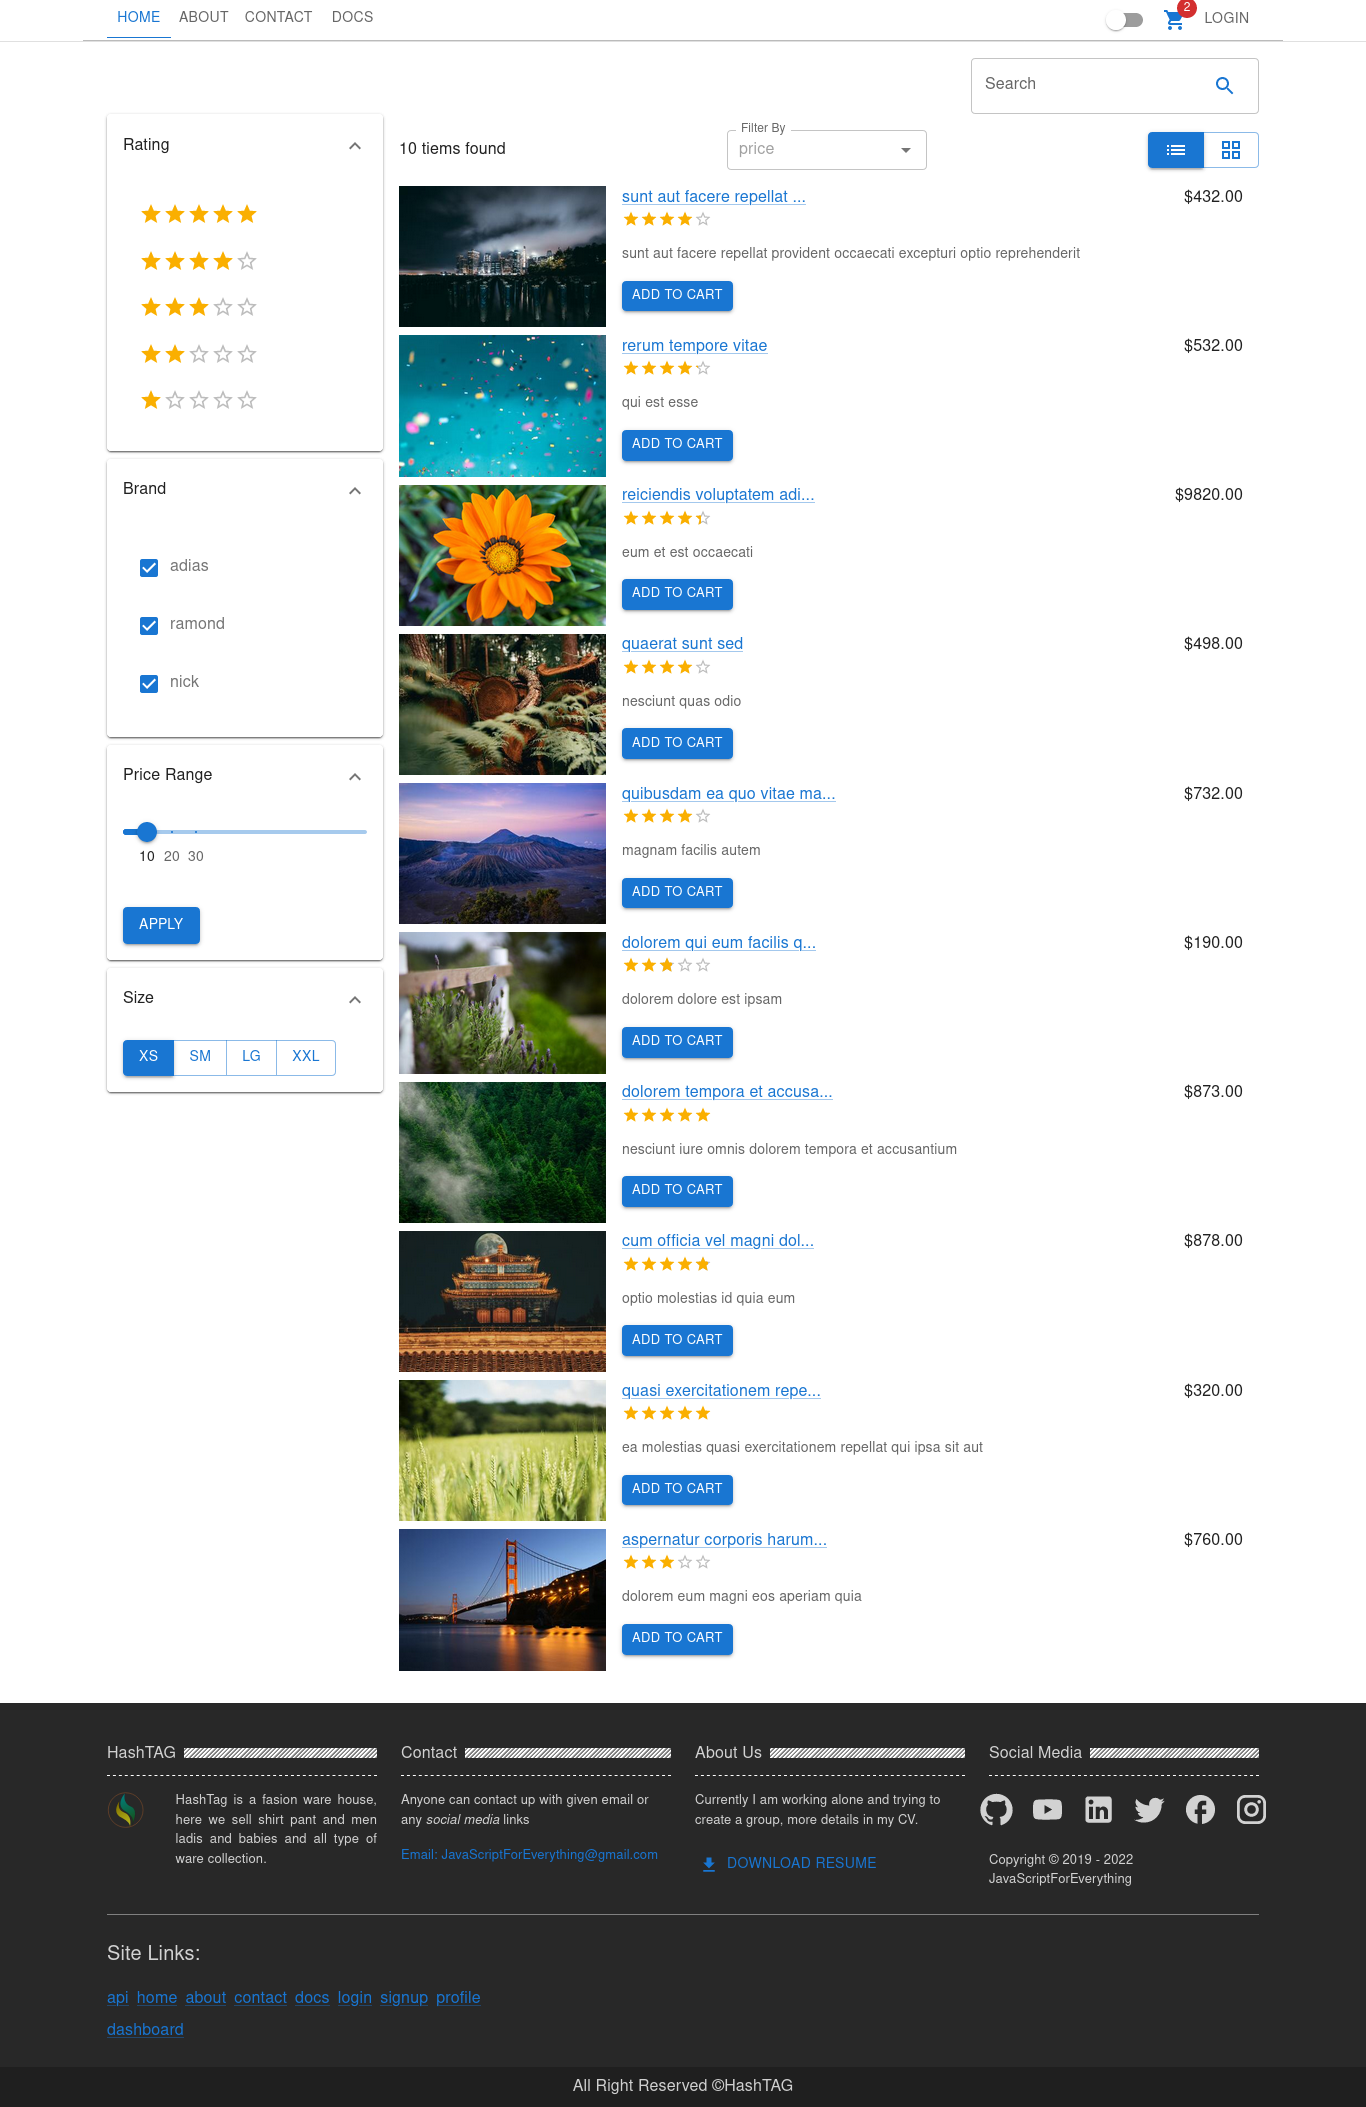
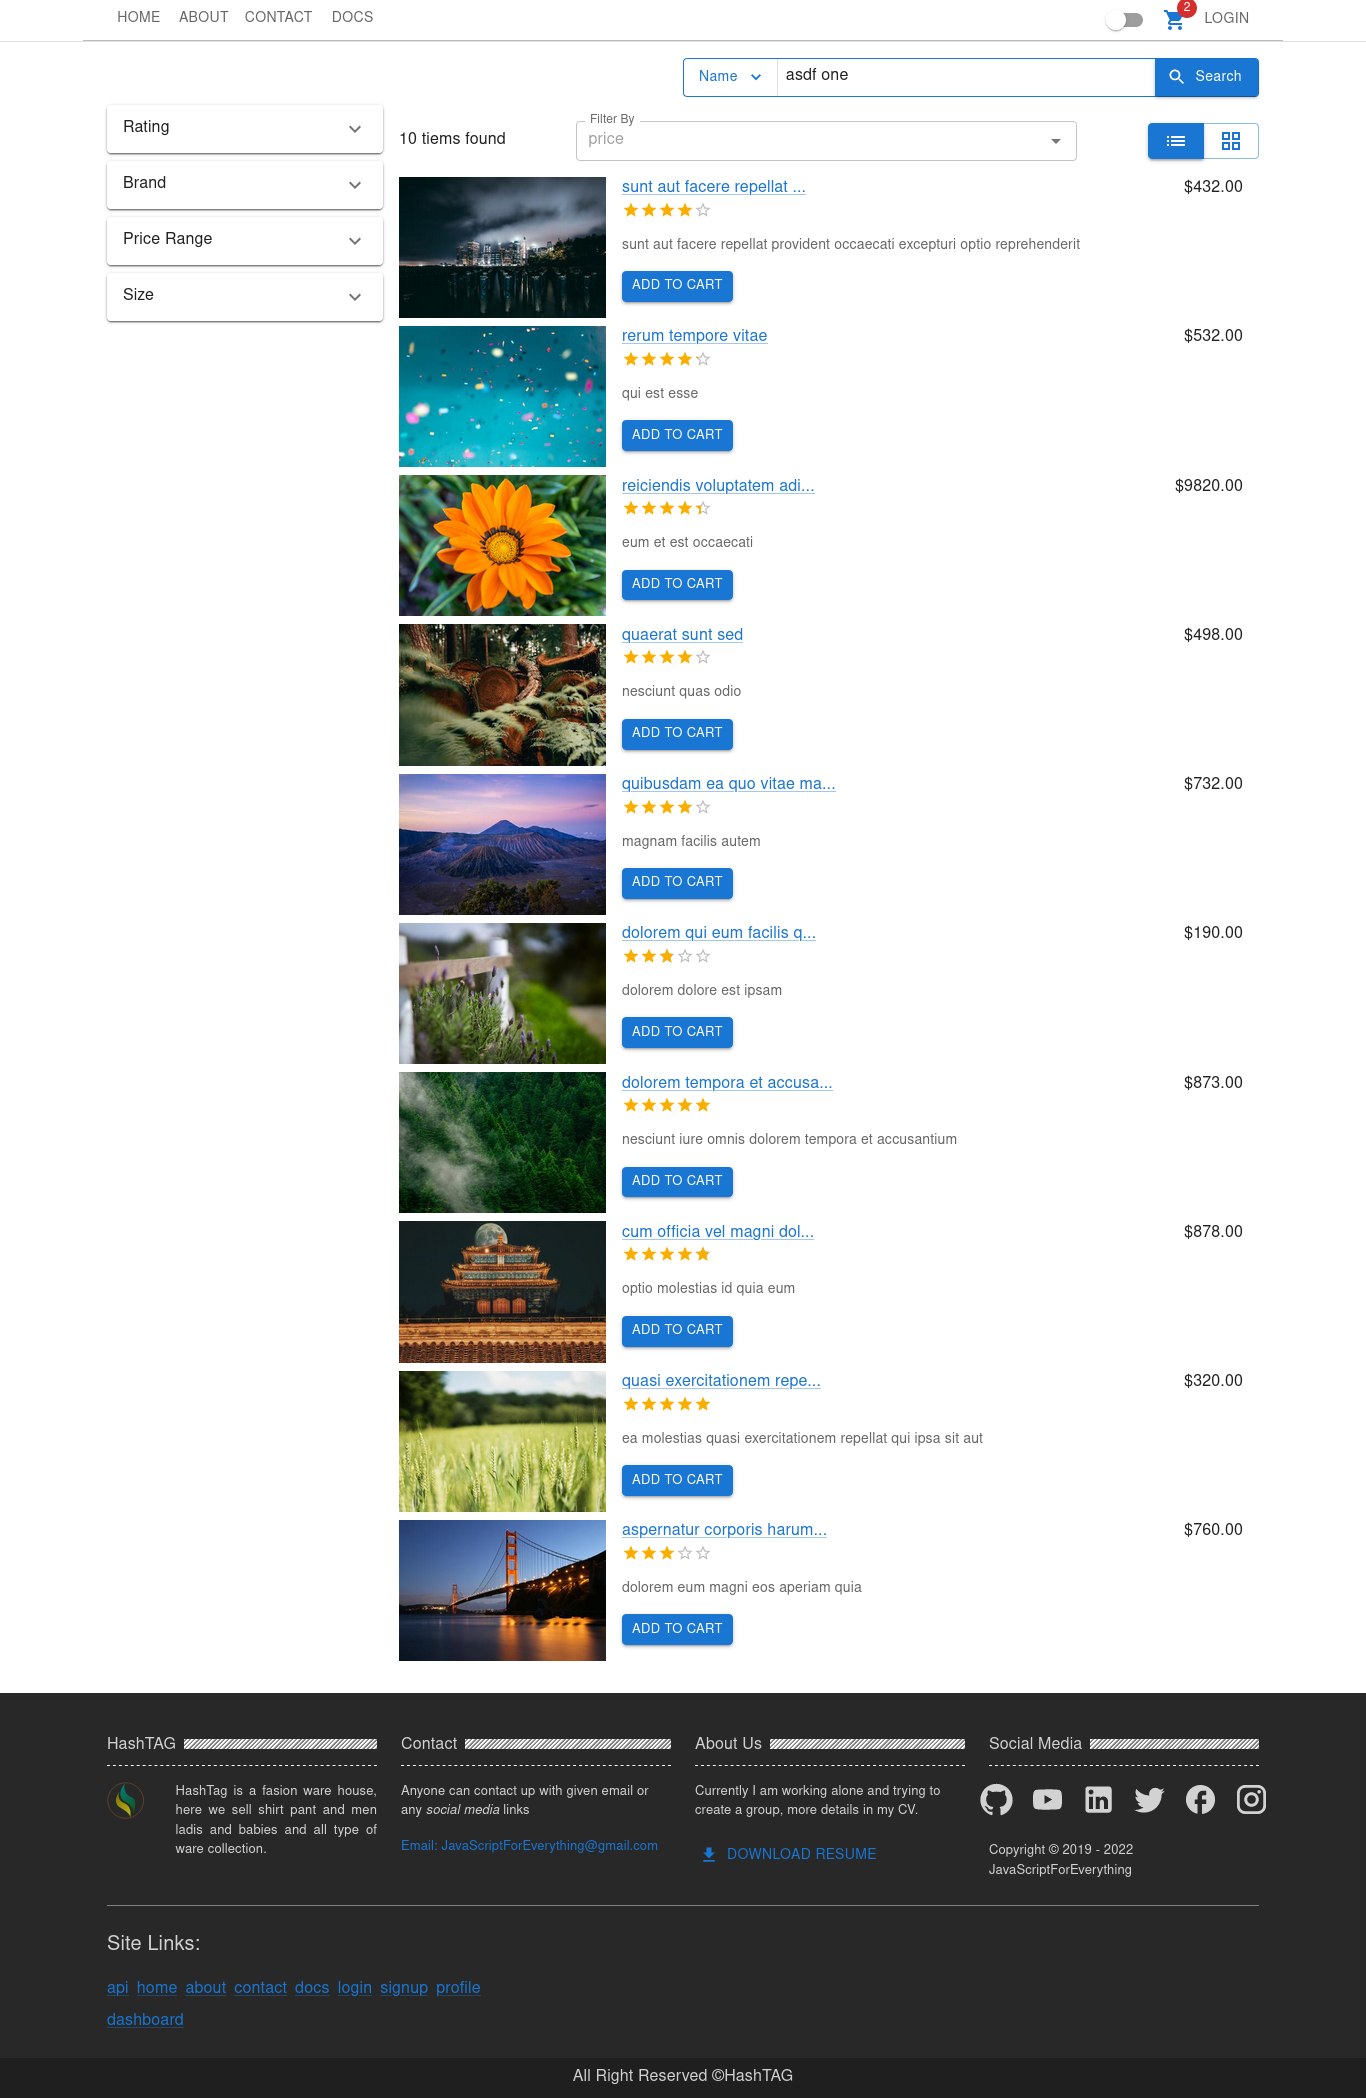
replace search component + centering with 50% max height the home page filter search

diff --git a/components/searchInput.tsx b/components/searchInput.tsx
@@ -1,0 +1,140 @@
+import { useState } from 'react'
+import slugify from 'slugify'
+
+import Box from '@mui/material/Box'
+import InputBase from '@mui/material/InputBase'
+import Button from '@mui/material/Button'
+import Typography from '@mui/material/Typography'
+import Menu from '@mui/material/Menu'
+import MenuItem from '@mui/material/MenuItem'
+import ListItemText from '@mui/material/ListItemText'
+
+import SearchIcon from '@mui/icons-material/Search'
+import KeyboardArrowDownIcon from '@mui/icons-material/KeyboardArrowDown'
+
+
+/*
+	//	const handleSubmit = (label: string, value: string) => {
+			const handleSubmit = (label: FilterLabel, value: string) => {
+				console.log({ label, value })
+			}
+			<SearchInput submitHandler={handleSubmit} />
+*/
+
+
+
+
+export type FilterLabel = 'name' | 'slug'
+const filterLables: FilterLabel[] = ['name', 'slug']
+
+type Props = {
+	submitHandler: (label: FilterLabel, value: string) => void
+}
+const SearchInput = ({ submitHandler }: Props) => {
+	const [ open, setOpen ] = useState(false)
+	const [ anchorEl, setAnchorEl ] = useState<null | HTMLButtonElement>(null)
+	const [ searchFilterLabel, setSearchFilterLabel ] = useState<FilterLabel>(filterLables[0])
+	const [ searchValue, setSearchValue ] = useState('')
+
+	const closeMenuHandler = () => {
+		setOpen(false)
+		setAnchorEl(null)
+	}
+	const openMenuHandler = (evt: React.MouseEvent<HTMLButtonElement>) => {
+		setAnchorEl(evt.currentTarget)
+		setOpen(true)
+	}
+	const menuItemClickHandler = (filterLabel: FilterLabel) => () => {
+		closeMenuHandler()
+		setSearchFilterLabel(filterLabel)
+	}
+	const handleSearchValue = (evt: React.ChangeEvent<HTMLInputElement>) => {
+		setSearchValue(evt.target.value)
+	}
+	const searchHandler = () => {
+		// handle slug
+		if(searchFilterLabel === 'slug') {
+			const slugifySearchValue = slugify(searchValue, { lower: true })
+			submitHandler(searchFilterLabel, slugifySearchValue)
+
+			return // must return: don't go any more bellow
+		}
+
+		// handle others
+		submitHandler(searchFilterLabel, searchValue)
+	}
+
+	return (
+		<>
+		<Box sx={ theme => ({
+			display: 'flex',
+			borderRadius: 1,
+			border: `1px solid ${theme.palette.primary.main}`, 
+			'&:hover': {
+				border: `1px solid ${theme.palette.primary.dark}`, 
+			},
+			height: { xs:  8*6, sm: 'auto' }
+		})}>
+			<Button 
+				variant='outlined'
+				endIcon={<KeyboardArrowDownIcon />}
+				sx={ theme => ({
+					textTransform: 'capitalize',
+					borderRadius: 0,
+					border: 0,
+					borderRight: `1px solid ${theme.palette.grey[300]}`,
+					'&: hover' : {
+						border: 0,
+						borderRight: `1px solid ${theme.palette.grey[400]}`,
+					}
+				})}
+				onClick={openMenuHandler}
+			>{searchFilterLabel}</Button>
+
+			<InputBase 
+				placeholder='What are you looking for ...'
+				sx={{ flex: 1, ml: 1 }}
+				value={searchValue}
+				onChange={handleSearchValue}
+			/>
+
+			<Button 
+				variant='contained'
+				startIcon={<SearchIcon />}
+				sx={{
+					textTransform: 'capitalize',
+					borderRadius: 0,
+					border: 0,
+					borderTopRightRadius: 2,
+					borderBottomRightRadius: 2,
+					'&: hover' : {
+						border: 0,
+					}
+				}}
+				onClick={searchHandler}
+			>Search</Button>
+
+		</Box>
+
+		<Menu 
+			open={open}
+			anchorEl={anchorEl}
+			onClose={closeMenuHandler}
+		>
+			{filterLables.map(label => (
+				<MenuItem key={label} 
+					divider
+					onClick={menuItemClickHandler(label)}
+				>
+						{/* <ListItemText primary={`Filter By ${label}`} sx={{ textTransform: 'capitalize' }} /> */}
+						<ListItemText sx={{ textTransform: 'capitalize' }} >
+							<Typography component='span' variant='caption' color='textSecondary'>Filter By: </Typography>
+							<Typography component='span'> {label} </Typography>
+						</ListItemText>
+				</MenuItem>
+			))}
+		</Menu>
+		</>
+	)
+}
+export default SearchInput

diff --git a/pages/index.tsx b/pages/index.tsx
@@ -2,15 +2,16 @@ import { GET_PRODUCTS } from '@/graphql/query/product'
 import { ProductDocument } from '@/shared/types'
 import { client } from './_app'
 import * as productReducer from '@/store/productReducer'
+import { wrapper } from '../store'
+import SearchInput from '@/components/searchInput'
+import type { FilterLabel } from '@/components/searchInput'
 
 import { FilterBrands, FilterPrice, FilterRating, FilterSize } from '@/components/home/leftPanel'
 import { TitleBar, ProductContainer } from '@/components/home/rightSection'
-import SearchBar from '@/components/home/searchBar'
 
 import Box from '@mui/material/Box'
 import Grid from '@mui/material/Grid'
 import Paper from '@mui/material/Paper'
-import { wrapper } from '../store'
 
 
 const Home = () => {
@@ -22,12 +23,16 @@ const Home = () => {
 
 	// if(!data?.products) return <>Product not found</>
 
+	const searchSubmitHandler = (label: FilterLabel, value: string) => {
+		console.log({ label, value })
+	}
+
 	return (
 		<>
 
 		<Grid container sx={{ display: 'flex', justifyContent: 'flex-end', mb: 1 }}>
-			<Grid item xs={12} sm={6} md={3}>
-				<SearchBar />
+			<Grid item xs={12} sm={6} >
+				<SearchInput submitHandler={searchSubmitHandler} />
 			</Grid>
 		</Grid>
 

diff --git a/pages/demo.tsx b/pages/demo.tsx
@@ -1,9 +1,4 @@
-import { useState } from 'react'
-
-type StateType = {
-	email: string
-	password: string
-}
+import SearchInput from '@/components/searchInput'
 
 const listItems = [
 	{ name: 'email' },
@@ -11,25 +6,18 @@ const listItems = [
 ]
 
 const Demo = () => {
-	const [ fields, setFields ] = useState<StateType>({
-		email: '',
-		password: ''
-	})
 
-	// const name = 'email'
-	// fields[name]
+	const handleSubmit = (label: string, value: string) => {
+		console.log({ label, value })
+	}
 
 	return (
 		<>
-		{listItems.map( ({ name }) => (
-			<input 
-				key={name} 
-				// value={fields[name]}
-				// value={fields[name as keyof typeof fields]}
-				value={fields[name as keyof StateType]}
-			/>
-		))}
+			<h2>Demo</h2>
 			
+			<SearchInput 
+				submitHandler={handleSubmit}
+			/>
 		</>
 	)
 }

diff --git a/components/home/rightSection/titleBar/filterBy.tsx b/components/home/rightSection/titleBar/filterBy.tsx
@@ -32,14 +32,17 @@ export const FilterBy = ({ sx={} }: Props) => {
 						InputLabelProps={{ shrink: true }}
 						value={filterValue}
 						size='small'
-						fullWidth
-						// sx={{ width: 200 }}
 					/>
 				)}
 				options={options}
 				getOptionLabel={item => item}
 				onChange={handleChange}
 				// inputValue={filterValue}
+
+				sx={{ 
+					m: '0 auto',
+					width: { xs: '100%', sm: '80%' },
+				}}
 
 			/>	
 		</Box>

diff --git a/components/home/rightSection/titleBar/index.tsx b/components/home/rightSection/titleBar/index.tsx
@@ -15,7 +15,7 @@ export const TitleBar = () => {
 				justifyContent: 'space-between',
 				alignItems: 'center',
 				gap: 1,
-				my: 2
+				my: 2,
 			}}>
 				<Typography>{products.length} tiems found</Typography>
 				<FilterBy sx={{ flex: 1 }} />
